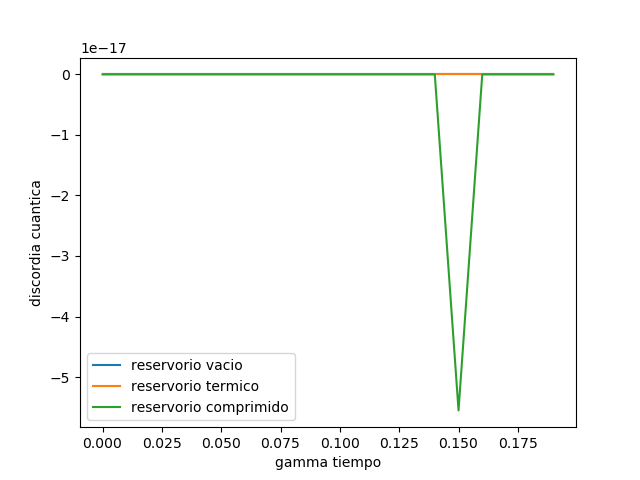
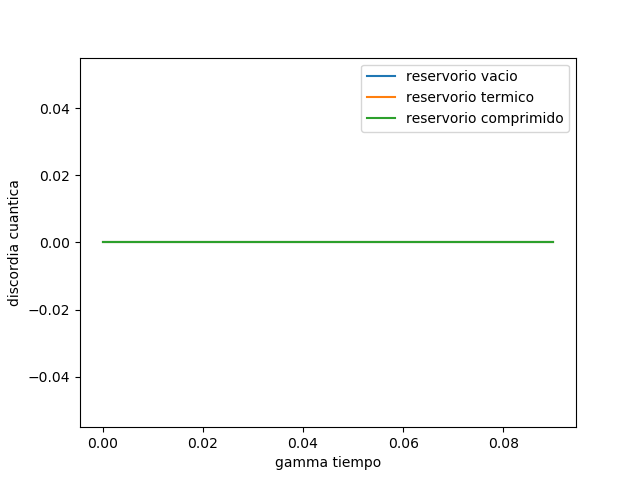
ingreso caso con acoplamiento

diff --git a/master.py b/master.py
@@ -76,70 +76,70 @@ emB_I5_S2S = mesolve(identity(2), I5_B, times, S2S) #Ecuacion Maestra para estad
 #print(entropy_mutual(Qobj(em_I3_S2C.states[32]),0,1)+entropy_conditional(Qobj(em_I3_S2C.states[32]),1))-entropy_vn(Qobj(em_I3_S2C.states[32]).ptrace(0))
 #print(entropy_mutual(Qobj(em_I3_S2C.states[32]),0,0))
 
-
+n = 10
 #Calcular todos los discord (mutua-A-condicional) y las concurrencias necesarias
-tiempo = [0.01*i for i in range(20)]
-conc_I1_S0C = [0 for i in range(20)]
-disc_I1_S0C = [0 for i in range(20)]
-conc_I2_S0C = [0 for i in range(20)]
-disc_I2_S0C = [0 for i in range(20)]
-conc_I3_S0C = [0 for i in range(20)]
-disc_I3_S0C = [0 for i in range(20)]
-conc_I4_S0C = [0 for i in range(20)]
-disc_I4_S0C = [0 for i in range(20)]
-conc_I5_S0C = [0 for i in range(20)]
-disc_I5_S0C = [0 for i in range(20)]
-conc_I1_S1C = [0 for i in range(20)]
-disc_I1_S1C = [0 for i in range(20)]
-conc_I2_S1C = [0 for i in range(20)]
-disc_I2_S1C = [0 for i in range(20)]
-conc_I3_S1C = [0 for i in range(20)]
-disc_I3_S1C = [0 for i in range(20)]
-conc_I4_S1C = [0 for i in range(20)]
-disc_I4_S1C = [0 for i in range(20)]
-conc_I5_S1C = [0 for i in range(20)]
-disc_I5_S1C = [0 for i in range(20)]
-conc_I1_S2C = [0 for i in range(20)]
-disc_I1_S2C = [0 for i in range(20)]
-conc_I2_S2C = [0 for i in range(20)]
-disc_I2_S2C = [0 for i in range(20)]
-conc_I3_S2C = [0 for i in range(20)]
-disc_I3_S2C = [0 for i in range(20)]
-conc_I4_S2C = [0 for i in range(20)]
-disc_I4_S2C = [0 for i in range(20)]
-conc_I5_S2C = [0 for i in range(20)]
-disc_I5_S2C = [0 for i in range(20)]
-conc_I1_S0S = [0 for i in range(20)]
-disc_I1_S0S = [0 for i in range(20)]
-conc_I2_S0S = [0 for i in range(20)]
-disc_I2_S0S = [0 for i in range(20)]
-conc_I3_S0S = [0 for i in range(20)]
-disc_I3_S0S = [0 for i in range(20)]
-conc_I4_S0S = [0 for i in range(20)]
-disc_I4_S0S = [0 for i in range(20)]
-conc_I5_S0S = [0 for i in range(20)]
-disc_I5_S0S = [0 for i in range(20)]
-conc_I1_S1S = [0 for i in range(20)]
-disc_I1_S1S = [0 for i in range(20)]
-conc_I2_S1S = [0 for i in range(20)]
-disc_I2_S1S = [0 for i in range(20)]
-conc_I3_S1S = [0 for i in range(20)]
-disc_I3_S1S = [0 for i in range(20)]
-conc_I4_S1S = [0 for i in range(20)]
-disc_I4_S1S = [0 for i in range(20)]
-conc_I5_S1S = [0 for i in range(20)]
-disc_I5_S1S = [0 for i in range(20)]
-conc_I1_S2S = [0 for i in range(20)]
-disc_I1_S2S = [0 for i in range(20)]
-conc_I2_S2S = [0 for i in range(20)]
-disc_I2_S2S = [0 for i in range(20)]
-conc_I3_S2S = [0 for i in range(20)]
-disc_I3_S2S = [0 for i in range(20)]
-conc_I4_S2S = [0 for i in range(20)]
-disc_I4_S2S = [0 for i in range(20)]
-conc_I5_S2S = [0 for i in range(20)]
-disc_I5_S2S = [0 for i in range(20)]
-for i in range (0,20):
+tiempo = [0.01*i for i in range(n)]
+conc_I1_S0C = [0 for i in range(n)]
+disc_I1_S0C = [0 for i in range(n)]
+conc_I2_S0C = [0 for i in range(n)]
+disc_I2_S0C = [0 for i in range(n)]
+conc_I3_S0C = [0 for i in range(n)]
+disc_I3_S0C = [0 for i in range(n)]
+conc_I4_S0C = [0 for i in range(n)]
+disc_I4_S0C = [0 for i in range(n)]
+conc_I5_S0C = [0 for i in range(n)]
+disc_I5_S0C = [0 for i in range(n)]
+conc_I1_S1C = [0 for i in range(n)]
+disc_I1_S1C = [0 for i in range(n)]
+conc_I2_S1C = [0 for i in range(n)]
+disc_I2_S1C = [0 for i in range(n)]
+conc_I3_S1C = [0 for i in range(n)]
+disc_I3_S1C = [0 for i in range(n)]
+conc_I4_S1C = [0 for i in range(n)]
+disc_I4_S1C = [0 for i in range(n)]
+conc_I5_S1C = [0 for i in range(n)]
+disc_I5_S1C = [0 for i in range(n)]
+conc_I1_S2C = [0 for i in range(n)]
+disc_I1_S2C = [0 for i in range(n)]
+conc_I2_S2C = [0 for i in range(n)]
+disc_I2_S2C = [0 for i in range(n)]
+conc_I3_S2C = [0 for i in range(n)]
+disc_I3_S2C = [0 for i in range(n)]
+conc_I4_S2C = [0 for i in range(n)]
+disc_I4_S2C = [0 for i in range(n)]
+conc_I5_S2C = [0 for i in range(n)]
+disc_I5_S2C = [0 for i in range(n)]
+conc_I1_S0S = [0 for i in range(n)]
+disc_I1_S0S = [0 for i in range(n)]
+conc_I2_S0S = [0 for i in range(n)]
+disc_I2_S0S = [0 for i in range(n)]
+conc_I3_S0S = [0 for i in range(n)]
+disc_I3_S0S = [0 for i in range(n)]
+conc_I4_S0S = [0 for i in range(n)]
+disc_I4_S0S = [0 for i in range(n)]
+conc_I5_S0S = [0 for i in range(n)]
+disc_I5_S0S = [0 for i in range(n)]
+conc_I1_S1S = [0 for i in range(n)]
+disc_I1_S1S = [0 for i in range(n)]
+conc_I2_S1S = [0 for i in range(n)]
+disc_I2_S1S = [0 for i in range(n)]
+conc_I3_S1S = [0 for i in range(n)]
+disc_I3_S1S = [0 for i in range(n)]
+conc_I4_S1S = [0 for i in range(n)]
+disc_I4_S1S = [0 for i in range(n)]
+conc_I5_S1S = [0 for i in range(n)]
+disc_I5_S1S = [0 for i in range(n)]
+conc_I1_S2S = [0 for i in range(n)]
+disc_I1_S2S = [0 for i in range(n)]
+conc_I2_S2S = [0 for i in range(n)]
+disc_I2_S2S = [0 for i in range(n)]
+conc_I3_S2S = [0 for i in range(n)]
+disc_I3_S2S = [0 for i in range(n)]
+conc_I4_S2S = [0 for i in range(n)]
+disc_I4_S2S = [0 for i in range(n)]
+conc_I5_S2S = [0 for i in range(n)]
+disc_I5_S2S = [0 for i in range(n)]
+for i in range (0,n):
       conc_I1_S0S[i] = concurrence(Qobj(tensor(emA_I1_S0S.states[i],emB_I1_S0S.states[i])))
       disc_I1_S0S[i] = entropy_mutual(Qobj(tensor(emA_I1_S0S.states[i],emB_I1_S0S.states[i])),0,1)+entropy_conditional(Qobj(tensor(emA_I1_S0S.states[i],emB_I1_S0S.states[i])),1)-entropy_vn(Qobj(tensor(emA_I1_S0S.states[i],emB_I1_S0S.states[i])).ptrace(0))
       conc_I2_S0S[i] = concurrence(Qobj(tensor(emA_I2_S0S.states[i],emB_I2_S0S.states[i])))
@@ -262,4 +262,24 @@ ylabel('discordia cuantica')
 legend(('reservorio vacio', 'reservorio termico', 'reservorio comprimido'))
 savefig('conc_logi1_S.png')
 
+#Qobj(em_I3_S0C.states[21]).matrix_element(basis(4,0).dag(),basis(4,0))+Qobj(em_I3_S0C.states[21]).matrix_element(basis(4,1).dag(),basis(4,1))
+#Qobj(em_I3_S0C.states[21]).matrix_element(basis(4,0).dag(),basis(4,2))+Qobj(em_I3_S0C.states[21]).matrix_element(basis(4,1).dag(),basis(4,3)) 
+#Qobj(em_I3_S0C.states[21]).matrix_element(basis(4,2).dag(),basis(4,0))+Qobj(em_I3_S0C.states[21]).matrix_element(basis(4,3).dag(),basis(4,1))
+#Qobj(em_I3_S0C.states[21]).matrix_element(basis(4,2).dag(),basis(4,2))+Qobj(em_I3_S0C.states[21]).matrix_element(basis(4,3).dag(),basis(4,3)) 
 
+#Qobj(em_I3_S0C.states[21]).matrix_element(basis(4,0).dag(),basis(4,0))+Qobj(em_I3_S0C.states[21]).matrix_element(basis(4,2).dag(),basis(4,2))
+#Qobj(em_I3_S0C.states[21]).matrix_element(basis(4,0).dag(),basis(4,1))+Qobj(em_I3_S0C.states[21]).matrix_element(basis(4,2).dag(),basis(4,3))
+#Qobj(em_I3_S0C.states[21]).matrix_element(basis(4,1).dag(),basis(4,0))+Qobj(em_I3_S0C.states[21]).matrix_element(basis(4,3).dag(),basis(4,2))
+#Qobj(em_I3_S0C.states[21]).matrix_element(basis(4,1).dag(),basis(4,1))+Qobj(em_I3_S0C.states[21]).matrix_element(basis(4,3).dag(),basis(4,3))
+
+matA=Qobj(np.array([[Qobj(em_I3_S0C.states[21]).matrix_element(basis(4,0).dag(),basis(4,0))+Qobj(em_I3_S0C.states[21]).matrix_element(basis(4,1).dag(),basis(4,1))
+,Qobj(em_I3_S0C.states[21]).matrix_element(basis(4,0).dag(),basis(4,2))+Qobj(em_I3_S0C.states[21]).matrix_element(basis(4,1).dag(),basis(4,3)) 
+],[Qobj(em_I3_S0C.states[21]).matrix_element(basis(4,2).dag(),basis(4,0))+Qobj(em_I3_S0C.states[21]).matrix_element(basis(4,3).dag(),basis(4,1))
+,Qobj(em_I3_S0C.states[21]).matrix_element(basis(4,2).dag(),basis(4,2))+Qobj(em_I3_S0C.states[21]).matrix_element(basis(4,3).dag(),basis(4,3)) 
+]]))
+matB=Qobj(np.array([[Qobj(em_I3_S0C.states[21]).matrix_element(basis(4,0).dag(),basis(4,0))+Qobj(em_I3_S0C.states[21]).matrix_element(basis(4,2).dag(),basis(4,2))
+,Qobj(em_I3_S0C.states[21]).matrix_element(basis(4,0).dag(),basis(4,1))+Qobj(em_I3_S0C.states[21]).matrix_element(basis(4,2).dag(),basis(4,3))
+],[Qobj(em_I3_S0C.states[21]).matrix_element(basis(4,1).dag(),basis(4,0))+Qobj(em_I3_S0C.states[21]).matrix_element(basis(4,3).dag(),basis(4,2))
+,Qobj(em_I3_S0C.states[21]).matrix_element(basis(4,1).dag(),basis(4,1))+Qobj(em_I3_S0C.states[21]).matrix_element(basis(4,3).dag(),basis(4,3))
+]]))
+print(concurrence(tensor(matA,matB)))
